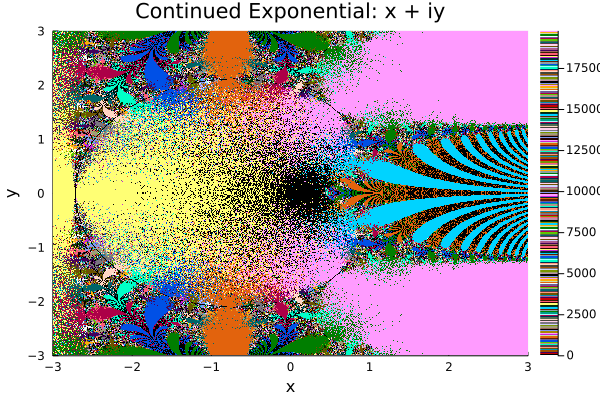
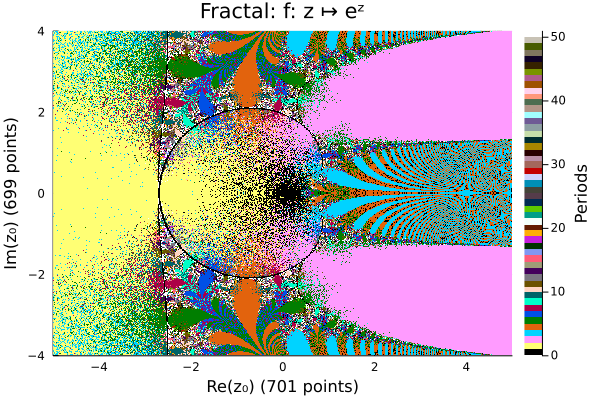
Redesigned module and produced examples

diff --git a/README.md b/README.md
@@ -1,4 +1,64 @@
 # Fractals.jl (WIP)
-A repository containing Julia code for evaluating the divergence of continued functions.
+A repository containing simple Julia code for evaluating the divergence of continued functions.
 
-![](img/exp.png)
+![Missing continued exponential example.](img/exp.png)
+
+Black: Could not determine within the computational period limit.
+White: Divergent with period over 50.
+
+## Usage
+After cloning repo,
+```julia
+include("./src/Fractals.jl")
+```
+then
+```julia
+using .Fractals
+using Plots
+```
+
+Define your recursion function.
+```julia
+f(z) = atan(z)
+```
+Specify the real and imaginary grid (preferably uniform).
+```julia
+x = LinRange(-1.5, 1.5, 701),
+y = LinRange(-2, 2, 699)
+```
+Select a maximum period.
+```julia
+max_period = 10_000
+```
+Compute the fractal grid.
+```julia
+fractal = Fractal(
+	"f: z ↦ atan(z)", # optional description of recursion function
+	f, max_period, x, y
+)
+```
+```
+f: z ↦ atan(z) Period Grid (8 threads): 100%|████████████████████████████████████████| Time: 0:22:48
+```
+
+Plot as heatmap.
+```julia
+plot(fractal)
+```
+
+![Missing continued arctan example.](img/atan.png)
+
+Another example, continued fractions.
+
+![Missing continued fraction example.](img/frac.png)
+
+## Implementation Features
+* Multithreading on whatever number of threads Julia starts with, using `Base.Threads` package.
+* Progress bar with ETA, using `ProgressMeter` package.
+* `Double64` precision, using `DoubleFloats` package.
+* Prescribed heatmap plot design specific for fractals developed by this module, using `RecipesBase` package.
+
+## Author Notes/Dev TODOs
+* Hunt down those allocations.
+* Some regions don't yield the same patterns as results from others, e.g. cardiod of convergence for the continued exponential. Try a greater precision with BigFloat instead of Double64.
+* Run with workers instead of threads.
